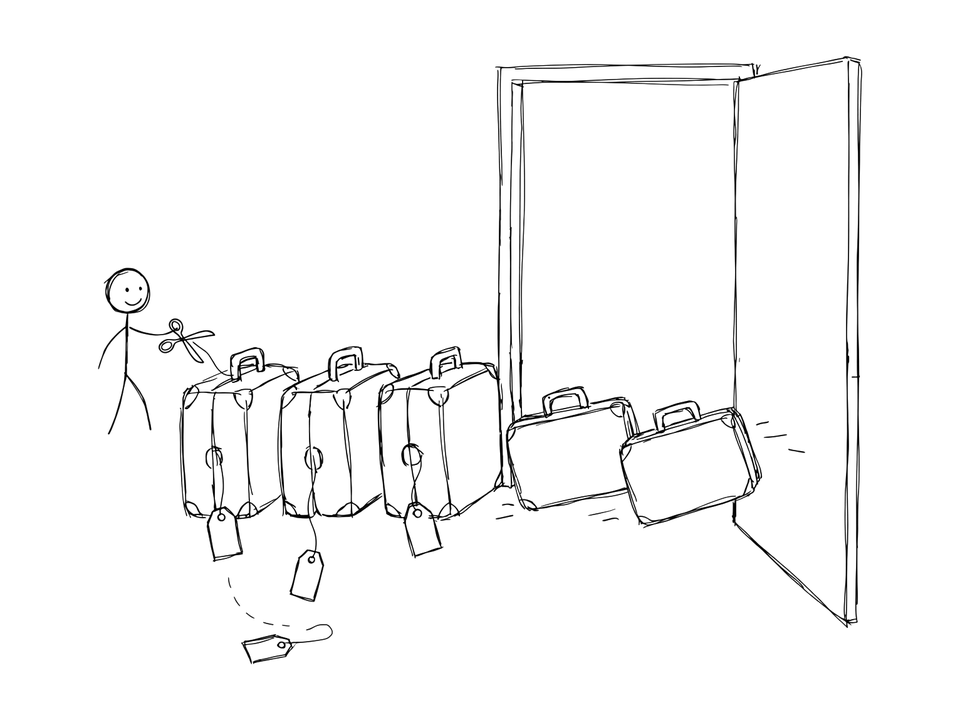
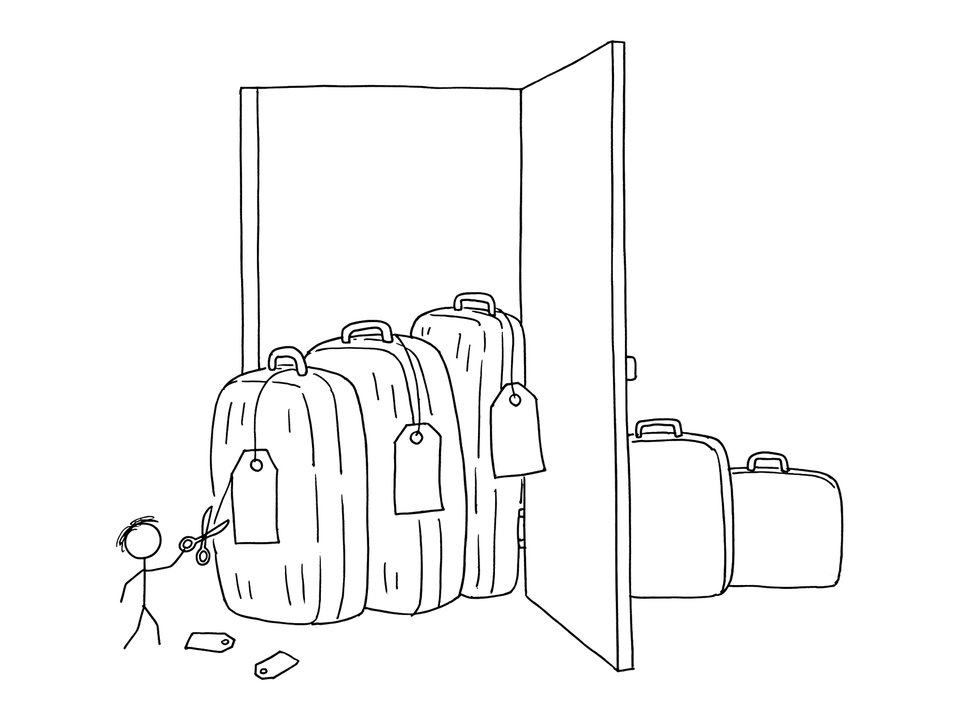
intro line with role, open source and degree; earlier roles without a heading; service and awards in one section at the bottom

diff --git a/src/site.js b/src/site.js
@@ -4,9 +4,9 @@ export const SITE = {
   shortName: 'Devanshi',
   url: 'https://devanshi-code18.github.io',
   // Used for search results and link previews.
-  description: 'Devanshi Jain, systems engineer at Meta working on ML inference efficiency, and open-source contributor to vLLM and PyTorch torchao.',
+  description: 'Devanshi Jain, systems engineer at Meta working on inference performance for video recommendation models, and open-source contributor to PyTorch and vLLM.',
   // The line under the name on the home page. Plain HTML is fine.
-  oneLiner: 'Systems engineer at Meta, making ML inference faster on fewer GPUs. In open source I work on LLM serving: <a href="https://github.com/vllm-project/vllm">vLLM</a> and <a href="https://github.com/pytorch/ao">PyTorch torchao</a>.',
+  oneLiner: 'Systems engineer at Meta working on inference performance for video recommendation models. I contribute to open source, mostly <a href="https://github.com/pytorch/ao">PyTorch</a> and <a href="https://github.com/vllm-project/vllm">vLLM</a>. B.S. in Mathematics and Computer Science from UC San Diego.',
   links: [
     { label: 'GitHub', href: 'https://github.com/devanshi-code18' },
     { label: 'LinkedIn', href: 'https://www.linkedin.com/in/djain18' },

diff --git a/src/styles/global.css b/src/styles/global.css
@@ -125,7 +125,10 @@ a:hover { color: var(--text); text-decoration-color: currentColor; }
 
 /* peer review, judging, wins */
 .two-col { display: grid; grid-template-columns: 1fr 1fr; gap: 0 2.75rem; }
-.two-col .sublabel { margin-top: 0; }
+.three-col { display: grid; grid-template-columns: repeat(3, 1fr); gap: 0 2.25rem; }
+.two-col .sublabel, .three-col .sublabel { margin-top: 0; }
+.career.compact { border-top: 1px solid var(--line); }
+.career.compact > li:first-child { border-top: 0; padding-top: .8rem; }
 .service { list-style: none; margin: 0; padding: 0; }
 .service li { padding: .55rem 0; border-top: 1px solid var(--line); }
 .service li:first-child { border-top: 0; padding-top: 0; }
@@ -252,7 +255,7 @@ a:hover { color: var(--text); text-decoration-color: currentColor; }
   .hero h1 { font-size: 2.6rem; }
   .block { margin-top: 3.25rem; }
   .label { font-size: 1.25rem; }
-  .oss-grid, .two-col { grid-template-columns: 1fr; gap: 2.5rem; }
+  .oss-grid, .two-col, .three-col { grid-template-columns: 1fr; gap: 2.5rem; }
   .career > li { grid-template-columns: 1fr; }
   .career .when { margin: 0 0 .2rem; }
   .pr-list a { grid-template-columns: 1fr; }
